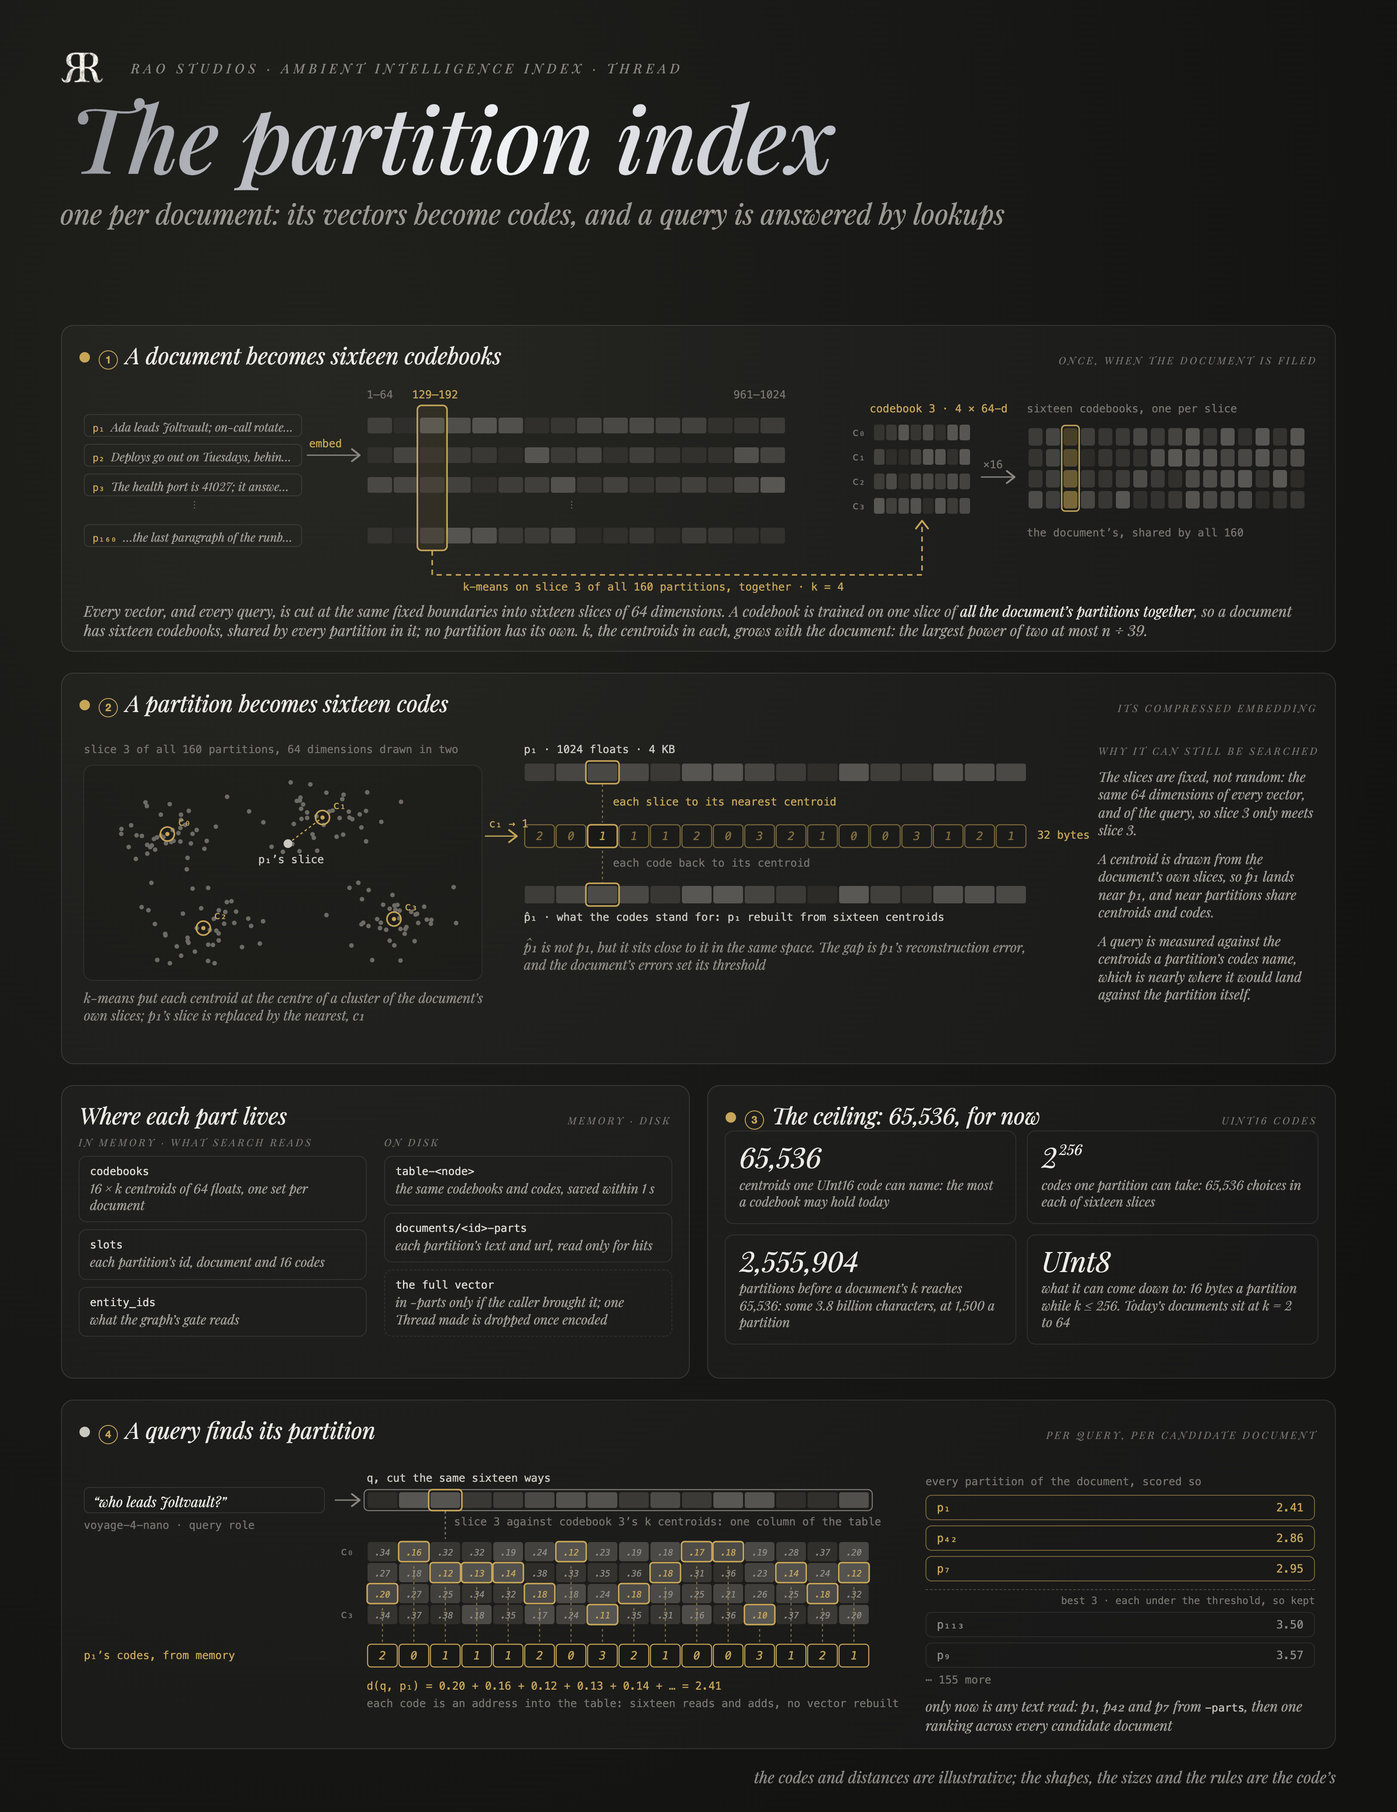
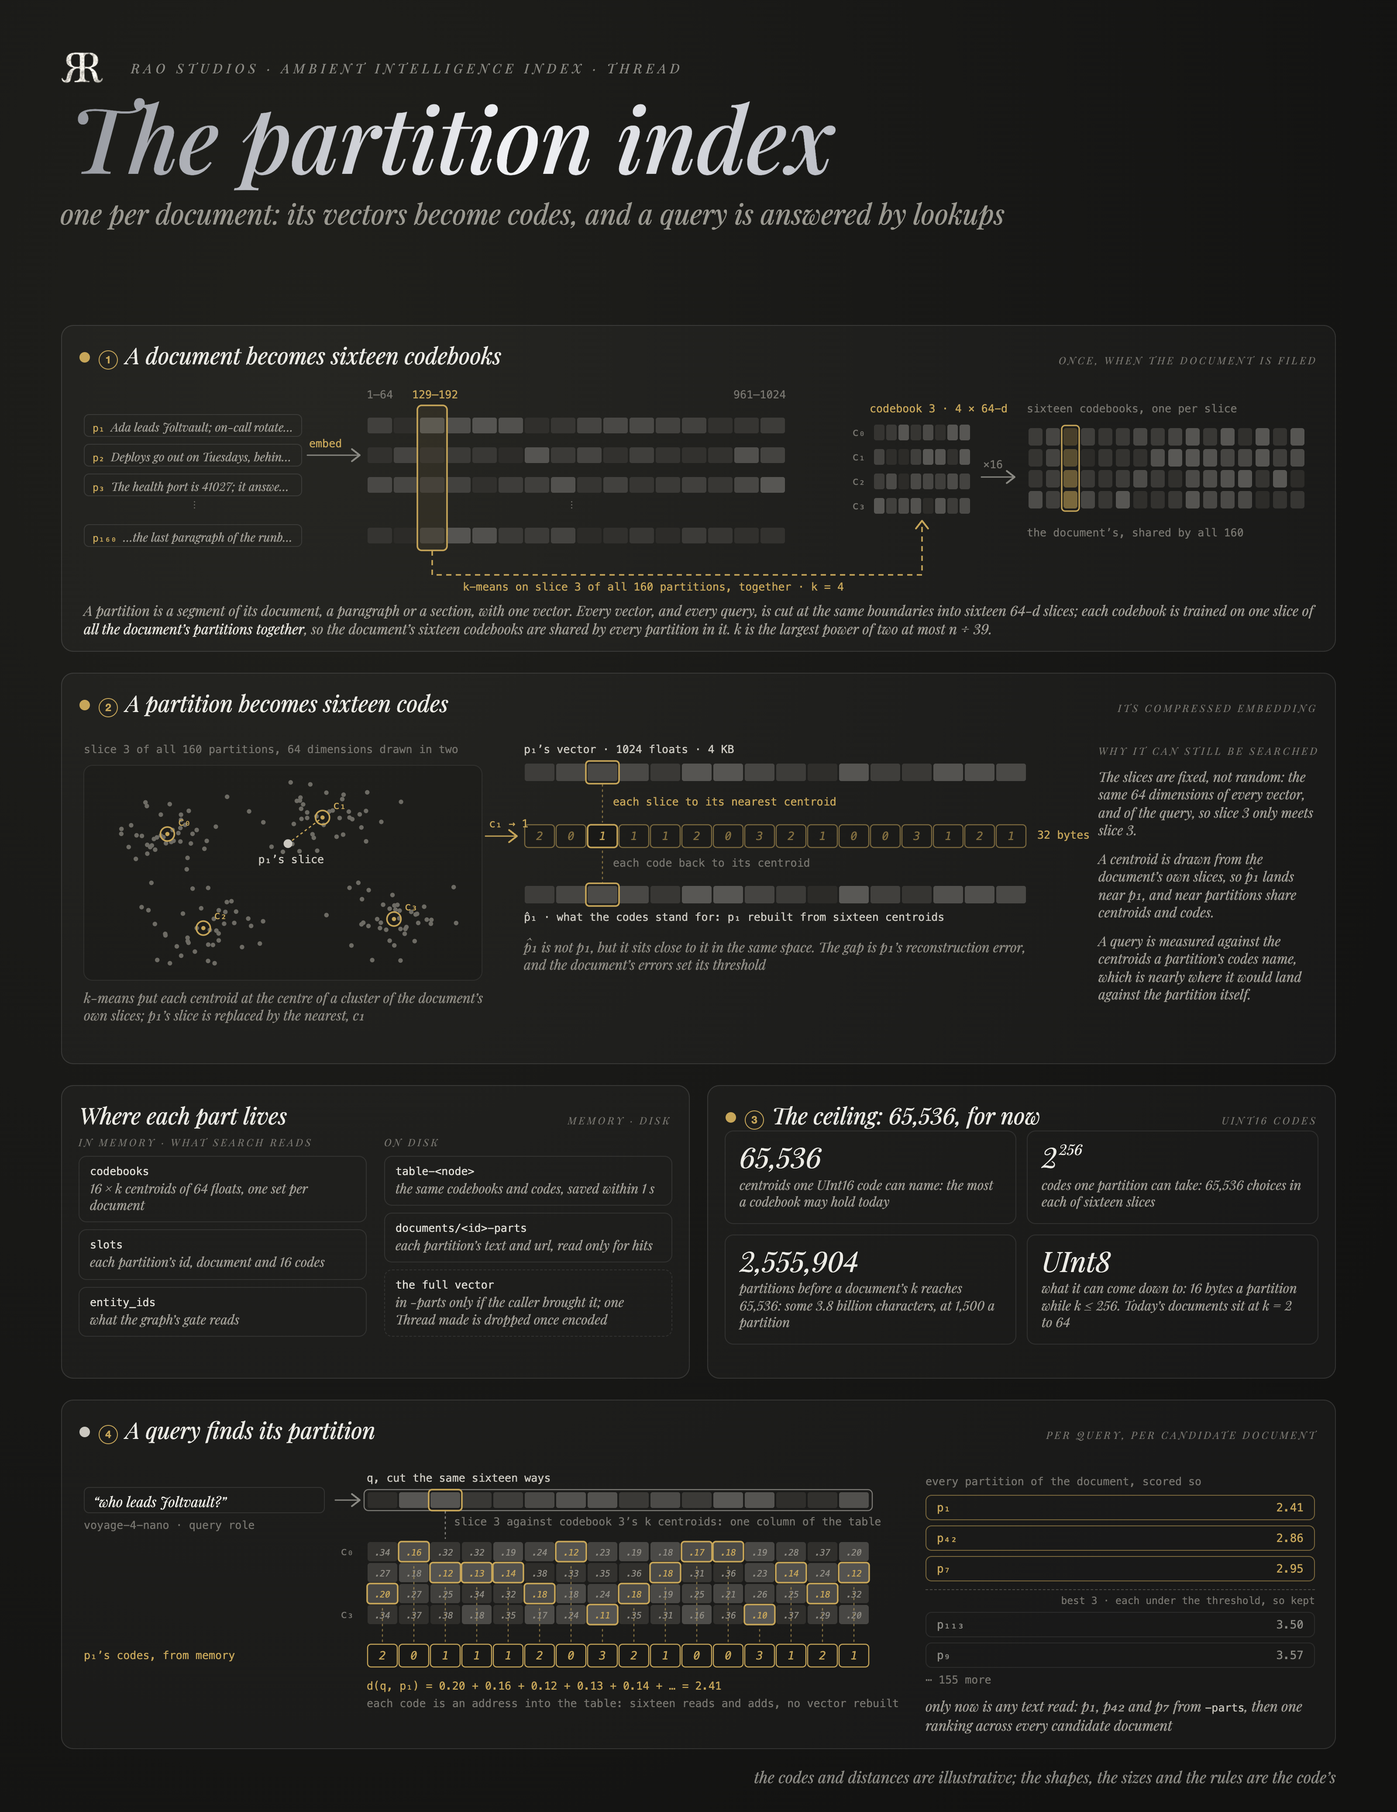
add the hnsw history in docs for blog/readme

diff --git a/Docs/README_Assets/src/plates.py b/Docs/README_Assets/src/plates.py
@@ -535,7 +535,7 @@ def partition_index():
     axis = lambda x, y, text, colour="#77756f": labels.append(wire(x, y, text, colour))
 
     # 1 · A document becomes sixteen codebooks.
-    mx, cw = 420, 30                                       # the matrix: rows are partitions, columns slices
+    mx, cw = 420, 30                                       # one vector per partition, cut into slices
     rows = [474, 508, 542, 600]
     for (name, text), y in zip(PARTITIONS + [("p₁₆₀", "…the last paragraph of the runbook")], rows):
         labels.append(f'<div class="ptext" style="left:96px; top:{y}px"><b>{name}</b> {text}</div>')
@@ -596,7 +596,7 @@ def partition_index():
     rx = 600
     v1 = vector()
     approx = [min(1, max(0, v + rng.uniform(-.09, .09))) for v in v1]
-    axis(rx, 850, "p₁ · 1024 floats · 4 KB", LINE)
+    axis(rx, 850, "p₁’s vector · 1024 floats · 4 KB", LINE)
     s.append(strip(rx, 874, v1, h=20, mark=SLICE))
     rsx = rx + SLICE * CELL_W + CELL_W / 2
     s.append(dotted(rsx, 898, rsx, 941))
@@ -679,7 +679,7 @@ def partition_index():
 .then code {{ font-family: {MONO}; font-style: normal; font-size: 12.5px; color: #c3c0b7; }}
 </style>
 {card(70, 372, 1460, 374, head(step(1) + "A document becomes sixteen codebooks", GOLD, "ONCE, WHEN THE DOCUMENT IS FILED"))}
-<div class="caption2" style="left:96px; top:688px; width:1410px">Every vector, and every query, is cut at the same fixed boundaries into sixteen slices of 64 dimensions. A codebook is trained on one slice of <b>all the document’s partitions together</b>, so a document has sixteen codebooks, shared by every partition in it; no partition has its own. k, the centroids in each, grows with the document: the largest power of two at most n ÷ 39.</div>
+<div class="caption2" style="left:96px; top:688px; width:1410px; font-size:16px">A partition is a segment of its document, a paragraph or a section, with one vector. Every vector, and every query, is cut at the same boundaries into sixteen 64-d slices; each codebook is trained on one slice of <b>all the document’s partitions together</b>, so the document’s sixteen codebooks are shared by every partition in it. k is the largest power of two at most n ÷ 39.</div>
 {card(70, 770, 1460, 448, head(step(2) + "A partition becomes sixteen codes", GOLD, "ITS COMPRESSED EMBEDDING"))}
 {card(70, 1242, 720, 336, head("Where each part lives", "", "MEMORY · DISK"))}
 <div class="cols" style="left:90px; top:1300px; width:680px">
@@ -707,7 +707,224 @@ def partition_index():
                  body, "the codes and distances are illustrative; the shapes, the sizes and the rules are the code’s")
 
 
-ALL = ["sewn_thread_seam", "thread_inside", "partition_index"]
+# MARK: The first index (Seer, with HNSW)
+
+# From riteshpakala/Seer: PartitionIndex at 87b7738 (2025-11-15), the HNSW graphs at 691ac2f (2026-03-23).
+TIMELINE = [
+    ("2025-11-15", "PartitionIndex", "one per document, each scanned"),
+    ("2026-03-08", "IVF-PQ", "a global index, trained at 2,500"),
+    ("2026-03-11", "HNSW", "replaces IVF, live from the first insert"),
+    ("2026-03-14", "personal HNSW", "a graph per owner, and its routes"),
+    ("AII", "set aside", "the PQ scan stays; the graph returns"),
+]
+ROUTES = [
+    ("GLOBAL", "the global graph is live", ["global HNSW · k × 10", "your access: available ∪ yours, k × 8 + k × 2",
+                                            "a floor for every group, from its PartitionIndex", "Sinatra", "threshold"]),
+    ("PERSONAL · GROUP", "your graph is live", ["your HNSW · k × 5", "the group, if asked", "Sinatra", "threshold"]),
+    ("NO GRAPH YET", "the fallback", ["each document’s PartitionIndex, scanned with PQ"]),
+]
+HNSW_ROUTES = [
+    ("POST /v1/hnsw/personal", "every live node of your graph, with its layer-0 neighbours"),
+    ("POST /v1/hnsw/global", "the shared graph, as far as you may see it"),
+    ("POST /v1/hnsw/node", "one node: its full text and every layer’s neighbours"),
+    ("DELETE /v1/hnsw/node", "remove it, from both graphs and its document"),
+]
+
+
+def layered_graph(x0, y0):
+    """Three layers of one graph, and a query cascading down them."""
+    xs = [x0 + 40 + i * 44 for i in range(14)]
+    layers = {2: [2, 10], 1: [2, 5, 8, 10, 12], 0: list(range(14))}
+    ys = {2: y0 + 30, 1: y0 + 120, 0: y0 + 210}
+    out = []
+    for level, y in ys.items():
+        out.append(f'<rect x="{x0}" y="{y - 26}" width="{xs[-1] - x0 + 40}" height="52" rx="10" fill="rgba(255,255,255,.025)" stroke="rgba(255,255,255,.07)"/>')
+    for i in range(14):                                   # a node is one column through its layers
+        top = max(l for l, members in layers.items() if i in members)
+        if top > 0:
+            out.append(dotted(xs[i], ys[top], xs[i], ys[0], "#6d6b64", .7))
+    for level, members in layers.items():
+        y = ys[level]
+        pairs = list(zip(members, members[1:])) + ([(a, b) for a, b in zip(members, members[2:])] if level == 0 else [])
+        for a, b in pairs:
+            arc = "" if level else f" Q{(xs[a] + xs[b]) / 2},{y + (18 if (b - a) == 2 else 0)} "
+            d = f"M{xs[a]},{y}{arc or ' L'}{xs[b]},{y}"
+            out.append(f'<path d="{d}" fill="none" stroke="#5f5d57" stroke-width="1.3"/>')
+        for i in members:
+            r = 7 if level == 2 else 6 if level == 1 else 4.5
+            out.append(f'<circle cx="{xs[i]}" cy="{y}" r="{r}" fill="#2a2925" stroke="#8b8a84" stroke-width="1.4"/>')
+    # The query: greedy at 2 and 1, a beam at 0.
+    path = [(2, 2), (2, 10), (1, 10), (1, 8), (0, 8)]
+    for (la, ia), (lb, ib) in zip(path, path[1:]):
+        xa, ya, xb, yb = xs[ia], ys[la], xs[ib], ys[lb]
+        if la == lb:
+            out.append(f'<line x1="{xa + (8 if xb > xa else -8)}" y1="{ya - 12}" x2="{xb + (-10 if xb > xa else 10)}" y2="{yb - 12}" stroke="{GOLD}" stroke-width="2"/>')
+            out.append(arrowhead(xb + (-10 if xb > xa else 10), yb - 12, "right" if xb > xa else "left", GOLD))
+        else:
+            out.append(f'<line x1="{xa + 10}" y1="{ya + 8}" x2="{xb + 10}" y2="{yb - 10}" stroke="{GOLD}" stroke-width="2" stroke-dasharray="5 4"/>')
+            out.append(arrowhead(xb + 10, yb - 10, "down", GOLD))
+    out.append(f'<ellipse cx="{xs[8]}" cy="{ys[0]}" rx="104" ry="20" fill="rgba(199,166,89,.1)" stroke="{GOLD}" stroke-width="1.4" stroke-dasharray="4 4"/>')
+    for i in (6, 7, 8, 9, 10):
+        out.append(f'<circle cx="{xs[i]}" cy="{ys[0]}" r="4.5" fill="{GOLD}"/>')
+    out.append(f'<text x="{xs[2] - 22}" y="{ys[2] - 14}" font-family="{MONO}" font-size="11" fill="{GOLD}" text-anchor="end">q</text>')
+    out.append(f'<circle cx="{xs[2] - 14}" cy="{ys[2] - 18}" r="3.5" fill="{GOLD}"/>')
+    out.append(dotted(xs[2] - 11, ys[2] - 15, xs[2] - 6, ys[2] - 6))
+    labels = [(x0 + 10, ys[2] - 46, "layer 2 · the few hubs: greedy, one hop"), (x0 + 10, ys[1] - 46, "layer 1 · greedy again, then down"),
+              (x0 + 10, ys[0] - 46, "layer 0 · every partition, ≤ 2M = 32 links")]
+    return "".join(out), labels, (xs[8] + 112, ys[0] - 8)
+
+
+def world_graph(x0, y0, w, h):
+    """The graph as it was shown: layer-0 neighbours as edges, a node's level as its size, yours in blue."""
+    rng = random.Random(7)
+    centres = [(0.22, 0.32), (0.55, 0.22), (0.78, 0.55), (0.38, 0.72), (0.64, 0.82)]
+    nodes = []
+    for c, (cx, cy) in enumerate(centres):
+        for _ in range(9):
+            nodes.append((x0 + w * min(.97, max(.03, cx + rng.gauss(0, .07))), y0 + h * min(.95, max(.05, cy + rng.gauss(0, .08))),
+                          c in (0, 3)))
+    out, edges = [], set()
+    for i, (xa, ya, _) in enumerate(nodes):
+        near = sorted(range(len(nodes)), key=lambda j: (nodes[j][0] - xa) ** 2 + (nodes[j][1] - ya) ** 2)[1:4]
+        edges.update(tuple(sorted((i, j))) for j in near)
+    for a, b in sorted(edges):
+        out.append(f'<line x1="{nodes[a][0]:.1f}" y1="{nodes[a][1]:.1f}" x2="{nodes[b][0]:.1f}" y2="{nodes[b][1]:.1f}" stroke="#4f4d48" stroke-width="1.1"/>')
+    hubs = {0: 2, 9: 1, 20: 2, 31: 1, 40: 1}
+    for i, (x, y, yours) in enumerate(nodes):
+        level = hubs.get(i, 0)
+        r = 4 + level * 3.2
+        fill = BLUE if yours else "#7d7b74"
+        out.append(f'<circle cx="{x:.1f}" cy="{y:.1f}" r="{r}" fill="{fill}" opacity="{.95 if yours else .7}" stroke="#191917" stroke-width="1.5"/>')
+    sx, sy, _ = nodes[4]
+    out.append(f'<circle cx="{sx:.1f}" cy="{sy:.1f}" r="11" fill="none" stroke="{GOLD}" stroke-width="2"/>')
+    return "".join(out), (sx, sy)
+
+
+def first_index():
+    s, labels = [], []
+    axis = lambda x, y, text, colour="#77756f": labels.append(wire(x, y, text, colour))
+
+    # The timeline.
+    ty = 368
+    s.append(f'<line x1="96" y1="{ty}" x2="1504" y2="{ty}" stroke="#4a4944" stroke-width="1.4"/>')
+    step_x = (1504 - 96) / (len(TIMELINE) - 1)
+    for n, (date, name, text) in enumerate(TIMELINE):
+        x = 96 + n * step_x
+        last = n == len(TIMELINE) - 1
+        s.append(f'<circle cx="{x}" cy="{ty}" r="6" fill="#191917" stroke="{DIAL if last else GOLD}" stroke-width="2"/>')
+        align = "left" if n == 0 else "right" if last else "center"
+        shift = 0 if n == 0 else -250 if last else -125
+        labels.append(f'<div class="tl" style="left:{x + shift}px; top:{ty + 14}px; text-align:{align}"><code>{date}</code><b>{name}</b><span>{text}</span></div>')
+
+    # 1 · A partition lived twice.
+    s.append(reply(338, 416, 578, GOLD, width=1.8))
+    s.append(reply(338, 416, 760, LINE, width=1.8))
+    s.append(f'<path d="M330,640 Q338,640 338,600 L338,578 M338,690 L338,760" fill="none" stroke="#6d6b64" stroke-width="1.4"/>')
+    axis(346, 556, "first", GOLD)
+    axis(346, 738, "then", LINE)
+    s.append(strip(108, 668, [random.Random(3).random() for _ in range(16)], h=14, w=13.5))
+
+    # 2 · The graph's layers.
+    graph, glabels, beam_at = layered_graph(102, 996)
+    s.append(graph)
+    for x, y, text in glabels:
+        axis(x, y, text)
+    axis(beam_at[0] - 214, beam_at[1] + 40, "layer 0: a beam of ef = 50 around the landing", GOLD)
+
+    # 4 · The world.
+    world, (sx, sy) = world_graph(110, 1450, 450, 400)
+    s.append(world)
+    s.append(f'<path d="M{sx + 11},{sy} L560,{sy} L590,1500" fill="none" stroke="{GOLD}" stroke-width="1.2"/>')
+
+    routes = "".join(
+        f'<div class="route"><div class="who"><span class="machine">{scope}</span><i>{when}</i></div><div class="flow">'
+        + '<span class="arrow">→</span>'.join(f'<span class="hop">{hop}</span>' for hop in hops) + "</div></div>"
+        for scope, when, hops in ROUTES)
+    endpoints = "".join(f'<div class="ep"><code>{call}</code><span>{text}</span></div>' for call, text in HNSW_ROUTES)
+    body = f"""<style>
+.tl {{ position: absolute; width: 250px; }}
+.tl span {{ white-space: nowrap; }}
+.tl code {{ display: block; font-family: {MONO}; font-style: normal; font-size: 11.5px; color: #77756f; }}
+.tl b {{ display: block; font-weight: 400; font-size: 20px; color: #ecebe5; margin-top: 2px; }}
+.tl span {{ display: block; font-size: 14.5px; line-height: 1.28; color: #a29f97; margin-top: 2px; }}
+.box {{ position: absolute; box-sizing: border-box; border: 1px solid rgba(255,255,255,.1); border-radius: 12px; padding: 12px 16px; background: rgba(255,255,255,.02); }}
+.box h5 {{ margin: 0; font-weight: 400; font-size: 19px; color: #e3e1da; display: flex; justify-content: space-between; align-items: baseline; }}
+.box h5 .machine {{ font-size: 10.5px; }}
+.box p {{ margin: 6px 0 0; font-size: 15px; line-height: 1.3; color: #a29f97; }}
+.field {{ display: grid; grid-template-columns: 150px 1fr; column-gap: 10px; margin-top: 5px; font-size: 14.5px; color: #a29f97; }}
+.field code {{ font-family: {MONO}; font-style: normal; font-size: 12.5px; color: #dcdad3; }}
+.kv {{ display: flex; gap: 6px; flex-wrap: wrap; margin-top: 10px; }}
+.kv code {{ font-family: {MONO}; font-style: normal; font-size: 11.5px; color: {GOLD}; border: 1px solid rgba(199,166,89,.4); border-radius: 4px; padding: 1px 7px; }}
+.route {{ border-top: 1px solid rgba(255,255,255,.07); padding: 12px 0 10px; }}
+.route:first-child {{ border-top: none; padding-top: 0; }}
+.route .who {{ display: flex; gap: 10px; align-items: baseline; }}
+.route .who i {{ font-size: 15px; color: #8f8c84; }}
+.route .flow {{ display: flex; flex-wrap: wrap; gap: 6px 4px; align-items: center; margin-top: 8px; }}
+.hop {{ font-size: 15px; color: #dcdad3; border: 1px solid rgba(255,255,255,.12); border-radius: 7px; padding: 3px 9px; }}
+.arrow {{ color: #6d6b64; font-style: normal; font-size: 13px; }}
+.ep {{ display: grid; grid-template-columns: 196px 1fr; column-gap: 12px; padding: 6px 0; border-bottom: 1px solid rgba(255,255,255,.06); }}
+.ep code {{ font-family: {MONO}; font-style: normal; font-size: 12px; color: {GOLD}; }}
+.ep span {{ font-size: 14.5px; color: #a29f97; line-height: 1.28; }}
+.hci p {{ margin: 11px 0 0; font-size: 16px; line-height: 1.34; color: #a29f97; }}
+.hci p b {{ font-weight: 400; color: #ecebe5; }}
+.inspect {{ position: absolute; width: 238px; box-sizing: border-box; border: 1px solid rgba(199,166,89,.55); border-radius: 10px; padding: 10px 12px; background: #1d1c19; }}
+.inspect code {{ font-family: {MONO}; font-style: normal; font-size: 11px; color: #8b8a84; }}
+.inspect p {{ margin: 5px 0 0; font-size: 14.5px; line-height: 1.28; color: #dcdad3; }}
+.inspect .del {{ display: inline-block; margin-top: 8px; font-family: {MONO}; font-style: normal; font-size: 11px; color: {ORANGE}; border: 1px solid rgba(216,119,63,.5); border-radius: 4px; padding: 1px 7px; }}
+.legend2 {{ position: absolute; display: flex; gap: 16px; font-family: {MONO}; font-style: normal; font-size: 11.5px; color: #8b8a84; }}
+.legend2 i {{ display: inline-block; width: 9px; height: 9px; border-radius: 50%; margin-right: 6px; }}
+</style>
+{card(70, 488, 1460, 400, head(step(1) + "A partition lived twice", GOLD, "ON PUT · TABLEMUTATOR"))}
+<div class="ptext" style="left:96px; top:592px; width:234px; height:auto; white-space:normal"><b>p</b> a partition: a segment of its document, a paragraph of an essay, with its full vector</div>
+<div class="box" style="left:424px; top:540px; width:560px; height:160px">
+  <h5>a node in the graph <span class="machine">HNSWGRAPH · GLOBAL, AND YOUR OWN</span></h5>
+  <div class="field"><code>partition</code><span>its text, url and owner</span></div>
+  <div class="field"><code>embedding</code><span>the full vector, kept: traversal measures it</span></div>
+  <div class="field"><code>level</code><span>the highest layer it reaches</span></div>
+  <div class="field"><code>neighbors[l]</code><span>its links at layer l: ≤ 32 at 0, ≤ 16 above</span></div>
+</div>
+<div class="box" style="left:424px; top:716px; width:560px; height:150px">
+  <h5>a partition of its document’s PartitionIndex <span class="machine">PER DOCUMENT · PQ</span></h5>
+  <p>the document’s codebooks are trained on all its partitions; each keeps 16 codes, 32 bytes, and its vector is cleared: <code style="font-family:{MONO}; font-style:normal; font-size:12.5px; color:#dcdad3">embedding = []</code></p>
+  <p>the graph had to take the vector first, before training let it go</p>
+</div>
+<div class="box" style="left:1004px; top:540px; width:500px; height:326px">
+  <h5>Where it lived <span class="machine">ON DISK</span></h5>
+  <div class="field"><code>table</code><span>keys, one PartitionIndex per document, and the global graph</span></div>
+  <div class="field"><code>personal/&lt;owner&gt;</code><span>that owner’s own graph, written beside the global one</span></div>
+  <div class="field"><code>documents/&lt;id&gt;</code><span>the document’s record</span></div>
+  <div class="field"><code>registry</code><span>owners, groups, access</span></div>
+  <div class="kv"><code>M = 16</code><code>efConstruction = 200</code><code>efSearch = 50</code></div>
+  <p style="margin-top:12px">the trade: in its document, a partition’s vector is 32 bytes of codes, scanned; in the graph it holds the full vector and its links, and is walked in O(log N)</p>
+</div>
+{card(70, 912, 720, 420, head(step(2) + "The navigable graph", GOLD, "HNSW"))}
+<div class="caption2 small" style="left:96px; top:1264px; width:670px">A node’s level is drawn at insert, P(level ≥ l) = (1 / ln M)<sup>l</sup>, so most live only at layer 0. An insert links to its nearest at each of its layers; a delete only marks the node, and compaction rebuilds.</div>
+{card(810, 912, 720, 420, head(step(3) + "Search, by scope", GOLD, "PARTITIONTABLE.SEARCH"))}
+<div class="label" style="left:836px; top:970px; width:670px">{routes}</div>
+{card(70, 1356, 1460, 520, head(step(4) + "A world you could walk", BLUE, "THE GRAPH, AS AN INTERFACE"))}
+<div class="legend2" style="left:96px; top:1416px; flex-direction:column; gap:4px; width:470px"><span><i style="background:{BLUE}"></i>yours: read, delete, relink</span><span><i style="background:#7d7b74"></i>the shared graph: read only</span><span>size = level · edges = layer-0 neighbours</span></div>
+<div class="inspect" style="left:590px; top:1470px"><code>p · level 0 · 6 neighbours · yours</code><p>“Ada leads Joltvault; on-call rotates weekly…”</p><span class="del">delete node</span></div>
+<div class="label" style="left:836px; top:1404px; width:670px">{endpoints}
+  <div class="hci">
+    <p><b>The index was the interface.</b> What a person saw was the structure search used: a partition’s neighbours were its edges, and its rank in the hierarchy was its size.</p>
+    <p><b>Ownership lived in the data.</b> Your graph held only your partitions, so it could be handed to you whole; the shared graph was shown as far as you could see it, never filtered after the fact.</p>
+    <p><b>Changes were visible.</b> Deleting a node took its edges with it, and compaction demoted hubs, which shrank.</p>
+  </div>
+</div>
+<svg width="{W}" height="1960">{"".join(s)}</svg>
+{"".join(labels)}"""
+    css_more = f"""<style>
+.ptext {{ position: absolute; box-sizing: border-box; padding: 8px 10px 34px; border: 1px solid rgba(255,255,255,.1); border-radius: 8px; font-size: 14.5px; line-height: 1.28; color: #a29f97; }}
+.ptext b {{ font-family: {MONO}; font-style: normal; font-weight: 400; font-size: 12px; color: {GOLD}; margin-right: 4px; }}
+.caption2 {{ position: absolute; font-size: 15.5px; line-height: 1.32; color: #8f8c84; }}
+.caption2 sup {{ font-size: .7em; }}
+</style>"""
+    return plate("first-index.png", 1940, "RAO STUDIOS · AMBIENT INTELLIGENCE INDEX · THE FIRST DESIGN · SEER",
+                 "The first index", "each partition lived twice: as codes in its document, and as a node in a world you could walk",
+                 css_more + body, "from riteshpakala/Seer: 87b7738, 2025-11-15, to 691ac2f, 2026-03-23 · retired in AII, planned to return")
+
+
+ALL = ["sewn_thread_seam", "thread_inside", "partition_index", "first_index"]
 
 
 def main():
